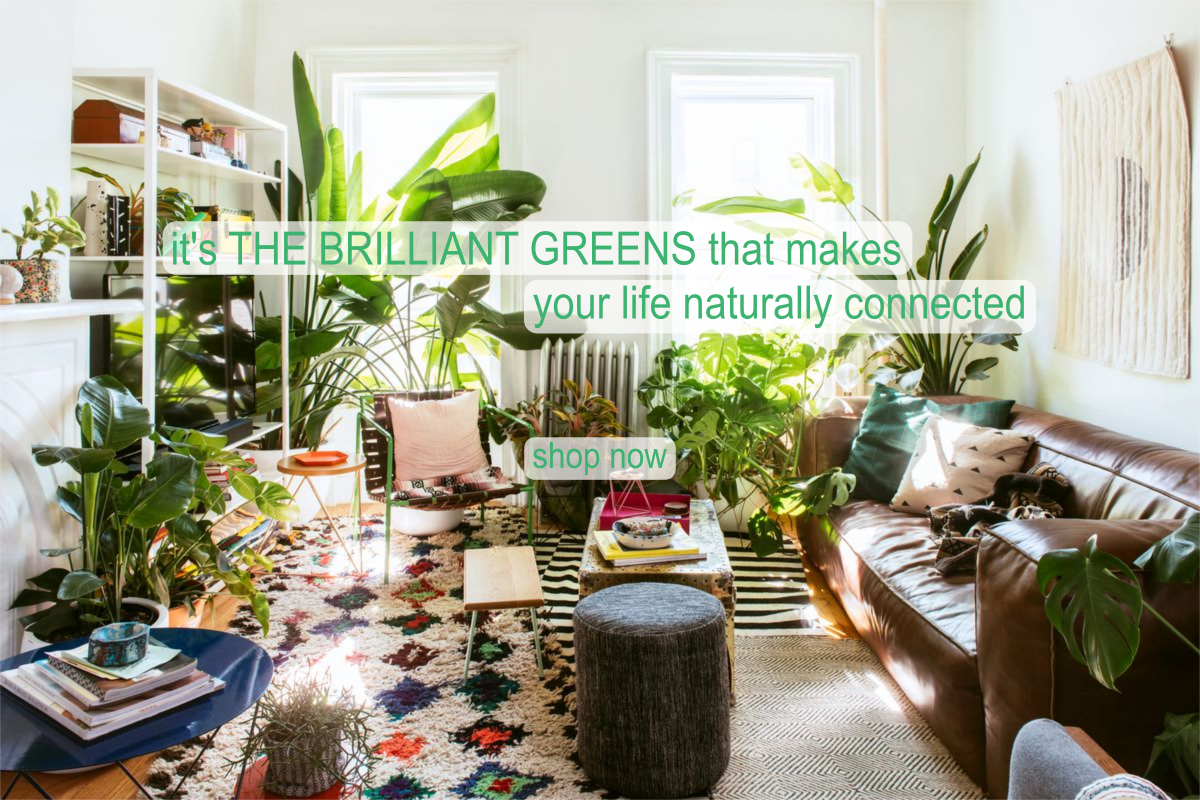
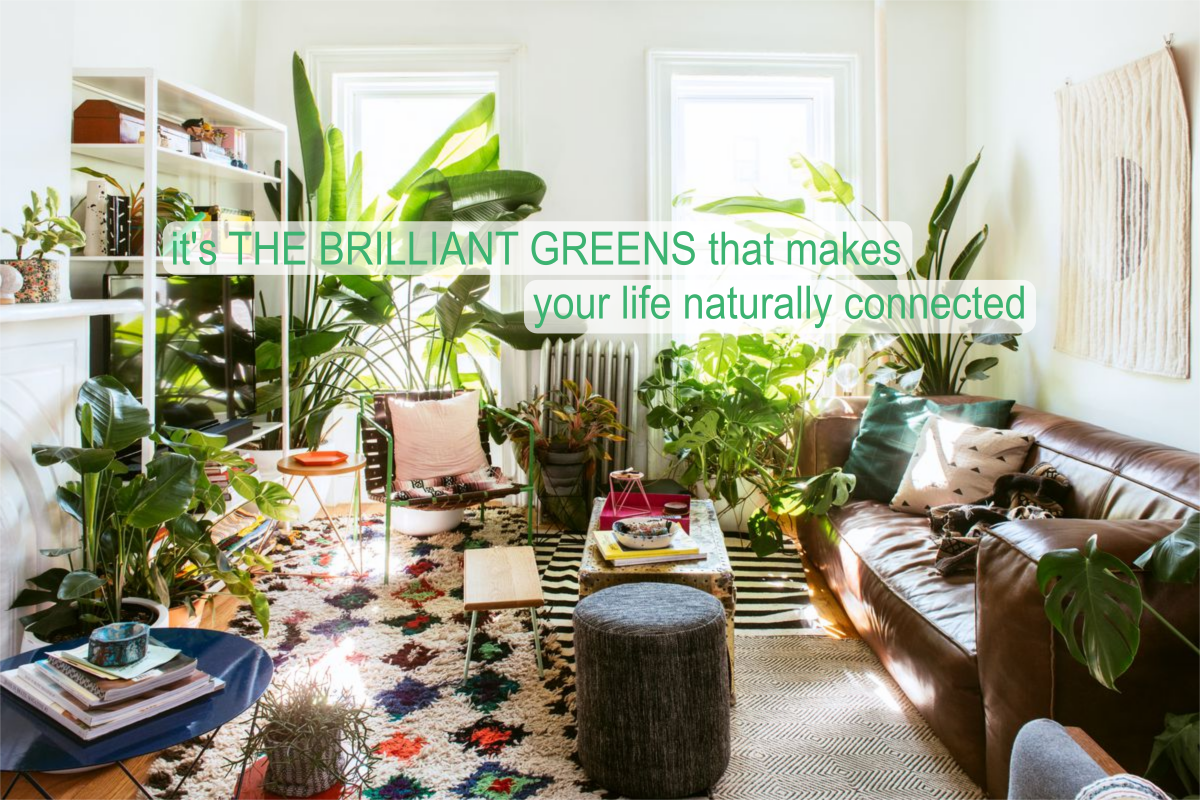
added shop now button and styling in css

Changed region(s): [[0.4317, 0.5312, 0.5858, 0.625]]

diff --git a/products/templates/products/landing_page-template.html b/products/templates/products/landing_page-template.html
@@ -2,9 +2,7 @@
 {% load static %}
 
 {% block content %}
-<div class="container mainsection sloganpage shadow my-2">
-
+<div class="container mainsection sloganpage shadow my-2 d-flex align-items-end justify-content-center">
+    <a class="border mb-4 h2 p-1" href="{% url 'shop_page' %}" id="shopnow">shop now</a>
 </div>
-
-
 {% endblock %}

diff --git a/static/styles/style.css b/static/styles/style.css
@@ -40,6 +40,12 @@ h6 {
     font-family: 'Oswald', sans-serif;
 }
 
+#shopnow {
+    background-color: white;
+    opacity: 70%;
+    color: #3cb371;
+    border-radius: 1rem;
+}
 
 
 /* Extra small devices (portrait phones, less than 576px)

diff --git a/products/templates/products/shop_page-template.html b/products/templates/products/shop_page-template.html
@@ -20,7 +20,4 @@
         </div>
     </div>
 </div>
-
-
-
 {% endblock %}
